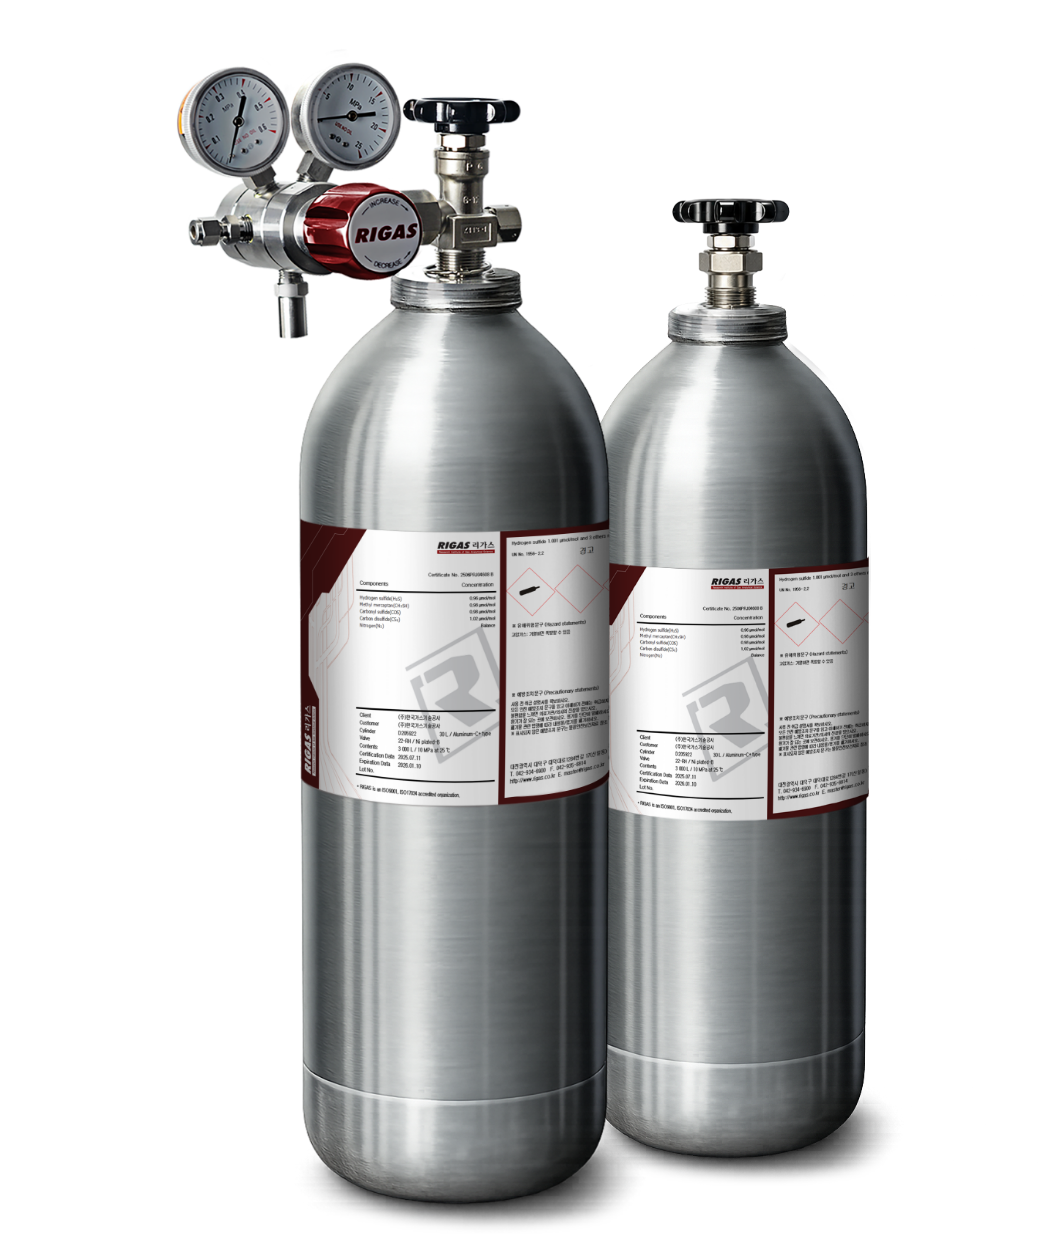
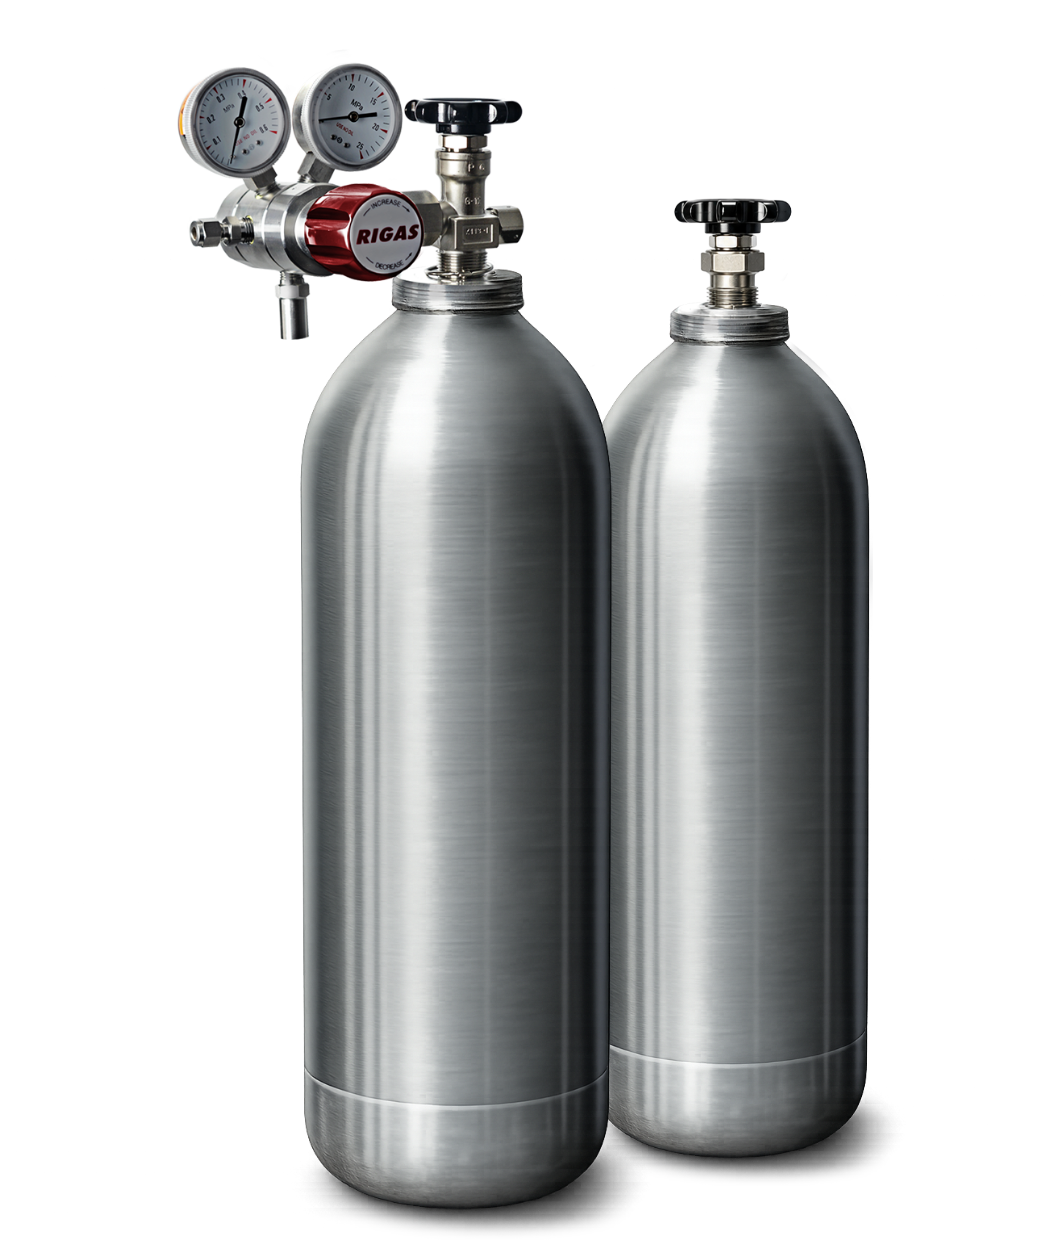
제품 이미지 교체 및 위치 조정, history 문구 수정

diff --git a/src/global.css b/src/global.css
@@ -724,13 +724,13 @@ body {
 
 /* Other Gas Mixtures */
 .other-gas-mixtures.product-detail .page-head {gap: 22px;}
-.other-gas-mixtures .product-detail-visual {right: 180px; bottom: 87px; width: 452px;}
+.other-gas-mixtures .product-detail-visual {right: 159px; bottom: 19px; width: 478px;}
 .other-gas-mixtures .tabs-nav {border-bottom: 2px solid var(--primary); margin-bottom: 29px;}
 .other-gas-mixtures .product-detail-body {margin-top: 99px;}
 .other-gas-mixtures .tabs-nav-btn {cursor: default;}
 
 /* rigas | ONE */
-.rigas-one .product-detail-visual {right: 191px; bottom: 136px; width: 414px;}
+.rigas-one .product-detail-visual {right: 167px; bottom: 92px; width: 447px;}
 .rigas-one .product-detail-body {margin-top: 60px;}
 
 /* rigas | ONE specialty mixtures */
@@ -738,7 +738,7 @@ body {
 .rigas-one-series .page-head-sbj {font-size: 42px;}
 .rigas-one-series .page-head-desc p {font-size: 18px; line-height: 1.55;}
 .pams57 .product-detail-visual {right: 73px; bottom: 66px; width: 695px;}
-.to14a .product-detail-visual {right: 165px; bottom: 97px; width: 536px;}
+.to14a .product-detail-visual {right: 236px; bottom: 84px; width: 383px;}
 .rigas-one-series .product-detail-body {width: 1120px; margin-top: 54px;}
 .rigas-one-series .tabs-nav {border-bottom: 2px solid var(--primary);}
 .rigas-one-series .tabs-nav-btn {min-width: 220px; padding-block: 12px;}

diff --git a/src/pages/en/company/history.jsx b/src/pages/en/company/history.jsx
@@ -66,7 +66,7 @@ export default function CompanyHistory() {
             </Anime>
               <Anime anime="fadeUp" delay={0.35} className="page-head-desc">
                 <p className="break-keep">
-                  RIGAS, Specialized Company on Standard Gas since 1998! <br />
+                  RIGAS, Specialized Company on Standard Gas since 1998. <br />
                   We produce a variety of standard gas with over 650,000 permits.
                 </p>
               </Anime>
